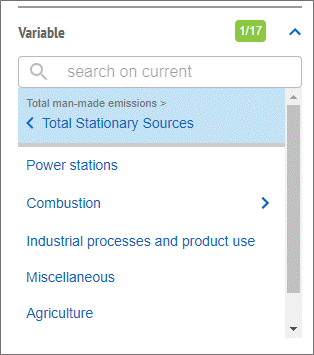
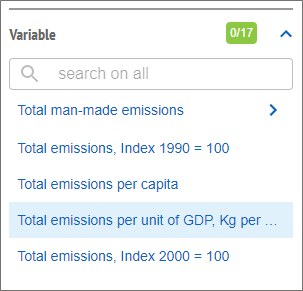
Update content/using-de/viewing-data/filters/_index.md, content/images/de-filters2.png, content/images/de-filters21.png files

diff --git a/content/using-de/viewing-data/filters/_index.md b/content/using-de/viewing-data/filters/_index.md
@@ -25,9 +25,13 @@ If the user has made selection(s) in the previous search result page, or if a de
 **Note** that, as a generic behavior, when no element of a filter is selected, then it acts as if all were selected.
 
 ### Hierarchical contents
-In case of a hierarchy in the dimension items, the filter will display the root parents' list at first. If some of the root parents have children, then by clicking on the arrow right next to a root parent label, the children of this root parent will be displayed instead. The same behaviour is applied if some of the children also have a sub-children list.  
+In case of a hierarchy in the dimension items, the filter will display the root parents' list at first.
 
 ![Hierarchical contents](/images/de-filters2.png)
+
+If some of the root parents have children, then by clicking on the arrow right next to a root parent label, the children of this root parent will be displayed instead. The same behaviour is applied if some of the children also have a sub-children list.  
+
+![Hierarchical contents](/images/de-filters21.png)
 
 **Functional behaviors**:
 * When selecting a parent, the selected parent is added to the "Used filters" area and, in the filter, the selected parent is shown with a (light blue) background.
